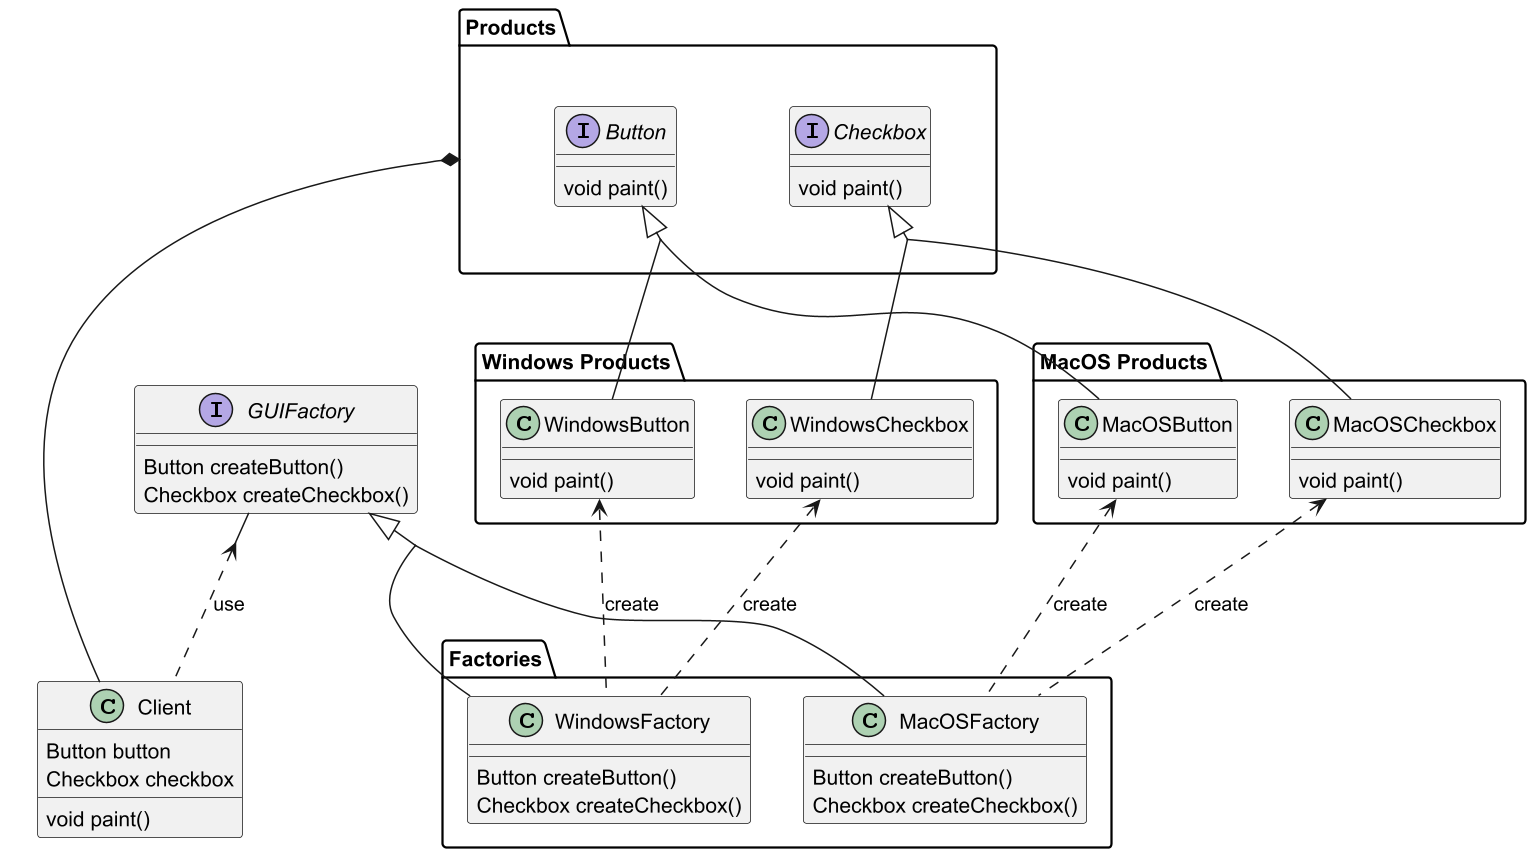
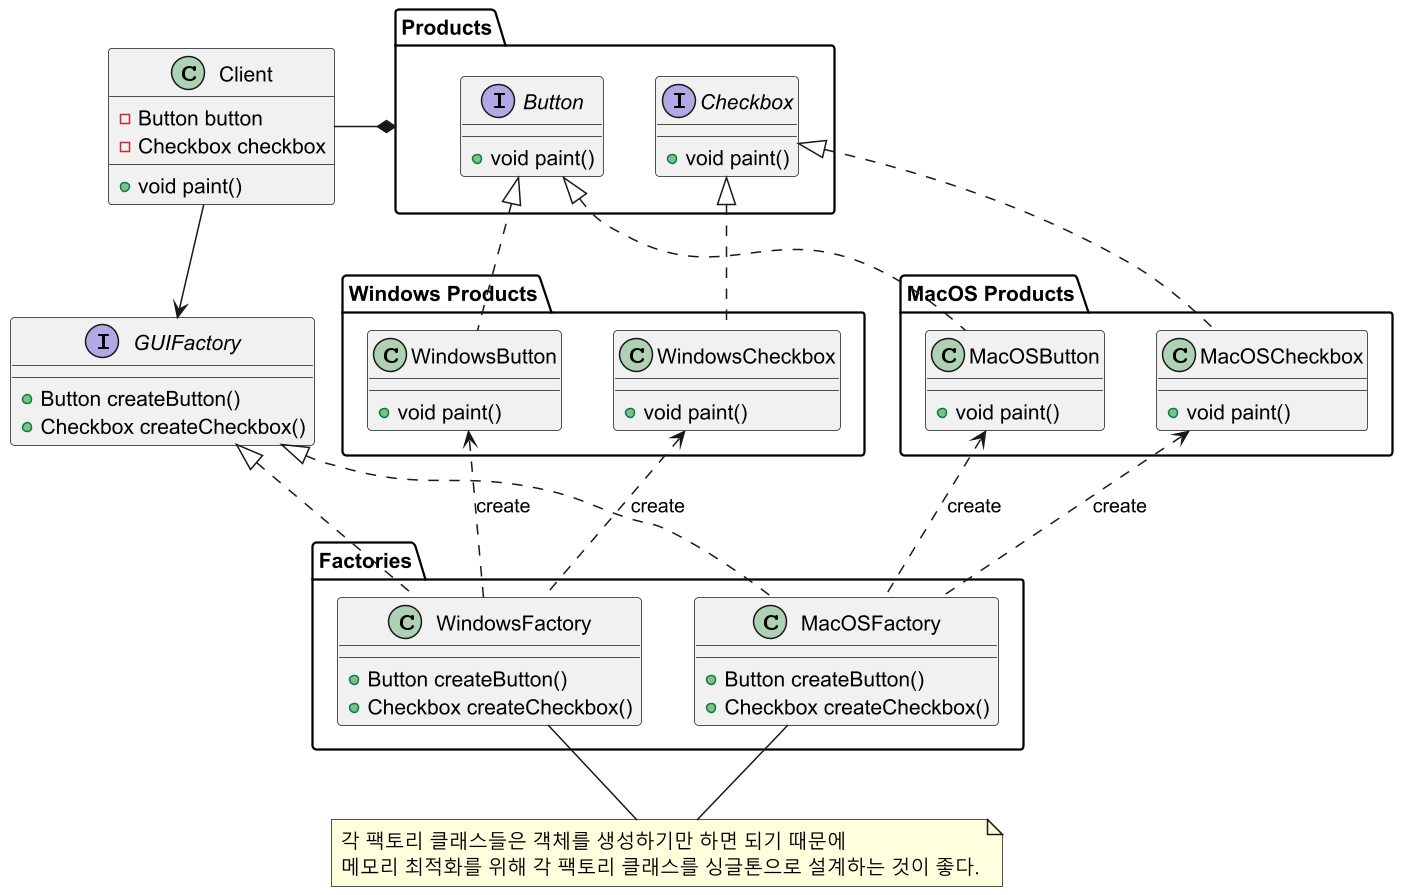
DesignPattern - Abstract Factory(수정)

diff --git a/Java/java8/designpattern/creational/absractFactory/AbstractFactory.md b/Java/java8/designpattern/creational/absractFactory/AbstractFactory.md
@@ -13,69 +13,332 @@
 
 ![img_1.png](image/img_1.png)
 
-![img_2.png](image/img_2.png)
-
-![img_3.png](image/img_3.png)
-
-![img_4.png](image/img_4.png)
-
-![img_5.png](image/img_5.png)
-
-![img_6.png](image/img_6.png)
-
-![img_7.png](image/img_7.png)
-
-![img_8.png](image/img_8.png)
-
-![img_9.png](image/img_9.png)
-
-![img_10.png](image/img_10.png)
-
-![img_11.png](image/img_11.png)
-
-![img_12.png](image/img_12.png)
-
-![img_13.png](image/img_13.png)
-
 만약 새로운 리눅스 제품군이 추가되어야 한다면 리눅스에 맞는 제품들과 팩토리 클래스만 추가해주면 된다.
 클라이언트 코드는 변경할 필요가 없다.
 
-각 팩토리 클래스들은 객체를 생성하기만 하면 되기 때문에 메모리 최적화를 위해 각 팩토리 클래스를
-싱글톤으로 설계하는 것이 좋다.
+```java
+//Abstract Product
+public interface Button {
+    void paint();
+}
+```
+```java
+//Abstract Product
+public interface Checkbox {
+    void paint();
+}
+```
+```java
+//Concrete Product
+public class WindowsButton implements Button {
+
+    @Override
+    public void paint() {
+        System.out.println("Rendering a button in Windows style");
+    }
+}
+```
+```java
+//Concrete Product
+public class WindowsCheckbox implements Checkbox {
+
+    @Override
+    public void paint() {
+        System.out.println("Rendering a checkbox in Windows style");
+    }
+}
+```
+```java
+//Concrete Product
+public class MacOSButton implements Button {
+
+    @Override
+    public void paint() {
+        System.out.println("Rendering a button in MacOS style");
+    }
+}
+```
+```java
+//Concrete Product
+public class MacOSCheckbox implements Checkbox {
+
+    @Override
+    public void paint() {
+        System.out.println("Rendering a checkbox in MacOS style");
+    }
+}
+```
+```java
+//Abstract Factory
+public interface GUIFactory {
+    Button createButton();
+    Checkbox createCheckbox();
+}
+```
+```java
+//Concrete Factory
+public class WindowsFactory implements GUIFactory {
+
+    @Override
+    public Button createButton() {
+        return new WindowsButton();
+    }
+
+    @Override
+    public Checkbox createCheckbox() {
+        return new WindowsCheckbox();
+    }
+}
+```
+```java
+//Concrete Factory
+public class MacOSFactory implements GUIFactory {
+
+    @Override
+    public Button createButton() {
+        return new MacOSButton();
+    }
+
+    @Override
+    public Checkbox createCheckbox() {
+        return new MacOSCheckbox();
+    }
+}
+```
+```java
+//Client
+public class Application {
+
+    private final Button button;
+    private final Checkbox checkbox;
+
+    public Application(GUIFactory factory) {
+        this.button = factory.createButton();
+        this.checkbox = factory.createCheckbox();
+    }
+
+    public void paint() {
+        button.paint();
+        checkbox.paint();
+    }
+}
+```
+```java
+public class Main {
+    public static void main(String[] args) {
+
+        paint(new WindowsFactory());
+
+        System.out.println("------------------------------");
+
+        paint(new MacOSFactory());
+        
+        //Output
+        //Rendering a button in Windows style
+        //Rendering a checkbox in Windows style
+        //------------------------------
+        //Rendering a button in MacOS style
+        //Rendering a checkbox in MacOS style
+    }
+
+    public static void paint(GUIFactory factory) {
+        new Application(factory).paint();
+    }
+}
+```
 
 ## 추상 팩토리 패턴 예제 코드 - 2
 
-![img_14.png](image/img_14.png)
+![img_2.png](image/img_2.png)
 
-![img_16.png](image/img_16.png)
+```java
+//Abstract Product
+public interface Connection {
+    void open();
+    void close();
+}
+```
+```java
+//Abstract Product
+public interface Command {
+    void execute(String query);
+}
+```
+```java
+//Abstract Product
+public interface ResultSet {
+    void getResults();
+}
+```
+```java
+//Concrete Product
+public class MySQLConnection implements Connection {
 
-![img_15.png](image/img_15.png)
+    @Override
+    public void open() {
+        System.out.println("Opening MySQL connection");
+    }
 
-![img_17.png](image/img_17.png)
+    @Override
+    public void close() {
+        System.out.println("Closing MySQL connection");
+    }
+}
+```
+```java
+//Concrete Product
+public class MySQLCommand implements Command {
 
-![img_18.png](image/img_18.png)
+    @Override
+    public void execute(String query) {
+        System.out.println("Executing MySQL query: " + query);
+    }
+}
+```
+```java
+//Concrete Product
+public class MySQLResultSet implements ResultSet {
 
-![img_19.png](image/img_19.png)
+    @Override
+    public void getResults() {
+        System.out.println("Getting results from MySQL database");
+    }
+}
+```
+```java
+//Concrete Product
+public class PostgreSQLConnection implements Connection {
 
-![img_20.png](image/img_20.png)
+    @Override
+    public void open() {
+        System.out.println("Opening PostgreSQL connection");
+    }
 
-![img_21.png](image/img_21.png)
+    @Override
+    public void close() {
+        System.out.println("Closing PostgreSQL connection");
+    }
+}
+```
+```java
+//Concrete Product
+public class PostgreSQLCommand implements Command {
 
-![img_22.png](image/img_22.png)
+    @Override
+    public void execute(String query) {
+        System.out.println("Executing PostgreSQL query: " + query);
+    }
+}
+```
+```java
+//Concrete Product
+public class PostgreSQLResultSet implements ResultSet {
 
-![img_23.png](image/img_23.png)
+    @Override
+    public void getResults() {
+        System.out.println("Getting results from PostgreSQL database");
+    }
+}
+```
+```java
+//Abstract Factory
+public interface DatabaseFactory {
+    Connection createConnection();
+    Command createCommand();
+    ResultSet createResultSet();
+}
+```
+```java
+//Concrete Factory
+public class MySQLFactory implements DatabaseFactory {
 
-![img_24.png](image/img_24.png)
+    @Override
+    public Connection createConnection() {
+        return new MySQLConnection();
+    }
 
-![img_25.png](image/img_25.png)
+    @Override
+    public Command createCommand() {
+        return new MySQLCommand();
+    }
 
-![img_26.png](image/img_26.png)
+    @Override
+    public ResultSet createResultSet() {
+        return new MySQLResultSet();
+    }
+}
+```
+```java
+//Concrete Factory
+public class PostgreSQLFactory implements DatabaseFactory {
 
-![img_27.png](image/img_27.png)
+    @Override
+    public Connection createConnection() {
+        return new PostgreSQLConnection();
+    }
 
-![img_28.png](image/img_28.png)
+    @Override
+    public Command createCommand() {
+        return new PostgreSQLCommand();
+    }
 
-![img_29.png](image/img_29.png)
+    @Override
+    public ResultSet createResultSet() {
+        return new PostgreSQLResultSet();
+    }
+}
+```
+```java
+//Client
+class DatabaseClient {
+
+    private final Connection connection;
+    private final Command command;
+    private final ResultSet resultSet;
+
+    public DatabaseClient(DatabaseFactory factory) {
+        connection = factory.createConnection();
+        command = factory.createCommand();
+        resultSet = factory.createResultSet();
+    }
+
+    public void performDatabaseOperations() {
+        connection.open();
+        command.execute("SELECT * FROM users");
+        resultSet.getResults();
+        connection.close();
+    }
+}
+```
+```java
+public class Main {
+    public static void main(String[] args) {
+
+        perform(new MySQLFactory());
+
+        System.out.println("\nSwitching to PostgreSQL...\n");
+
+        perform(new PostgreSQLFactory());
+        
+        //Output
+        //Opening MySQL connection
+        //Executing MySQL query: SELECT * FROM users
+        //Getting results from MySQL database
+        //Closing MySQL connection
+        //
+        //Switching to PostgreSQL...
+        //
+        //Opening PostgreSQL connection
+        //Executing PostgreSQL query: SELECT * FROM users
+        //Getting results from PostgreSQL database
+        //Closing PostgreSQL connection
+    }
+
+    public static void perform(DatabaseFactory factory) {
+        new DatabaseClient(factory).performDatabaseOperations();
+    }
+}
+```
 
 ## 추상 팩토리 패턴 장단점
 
